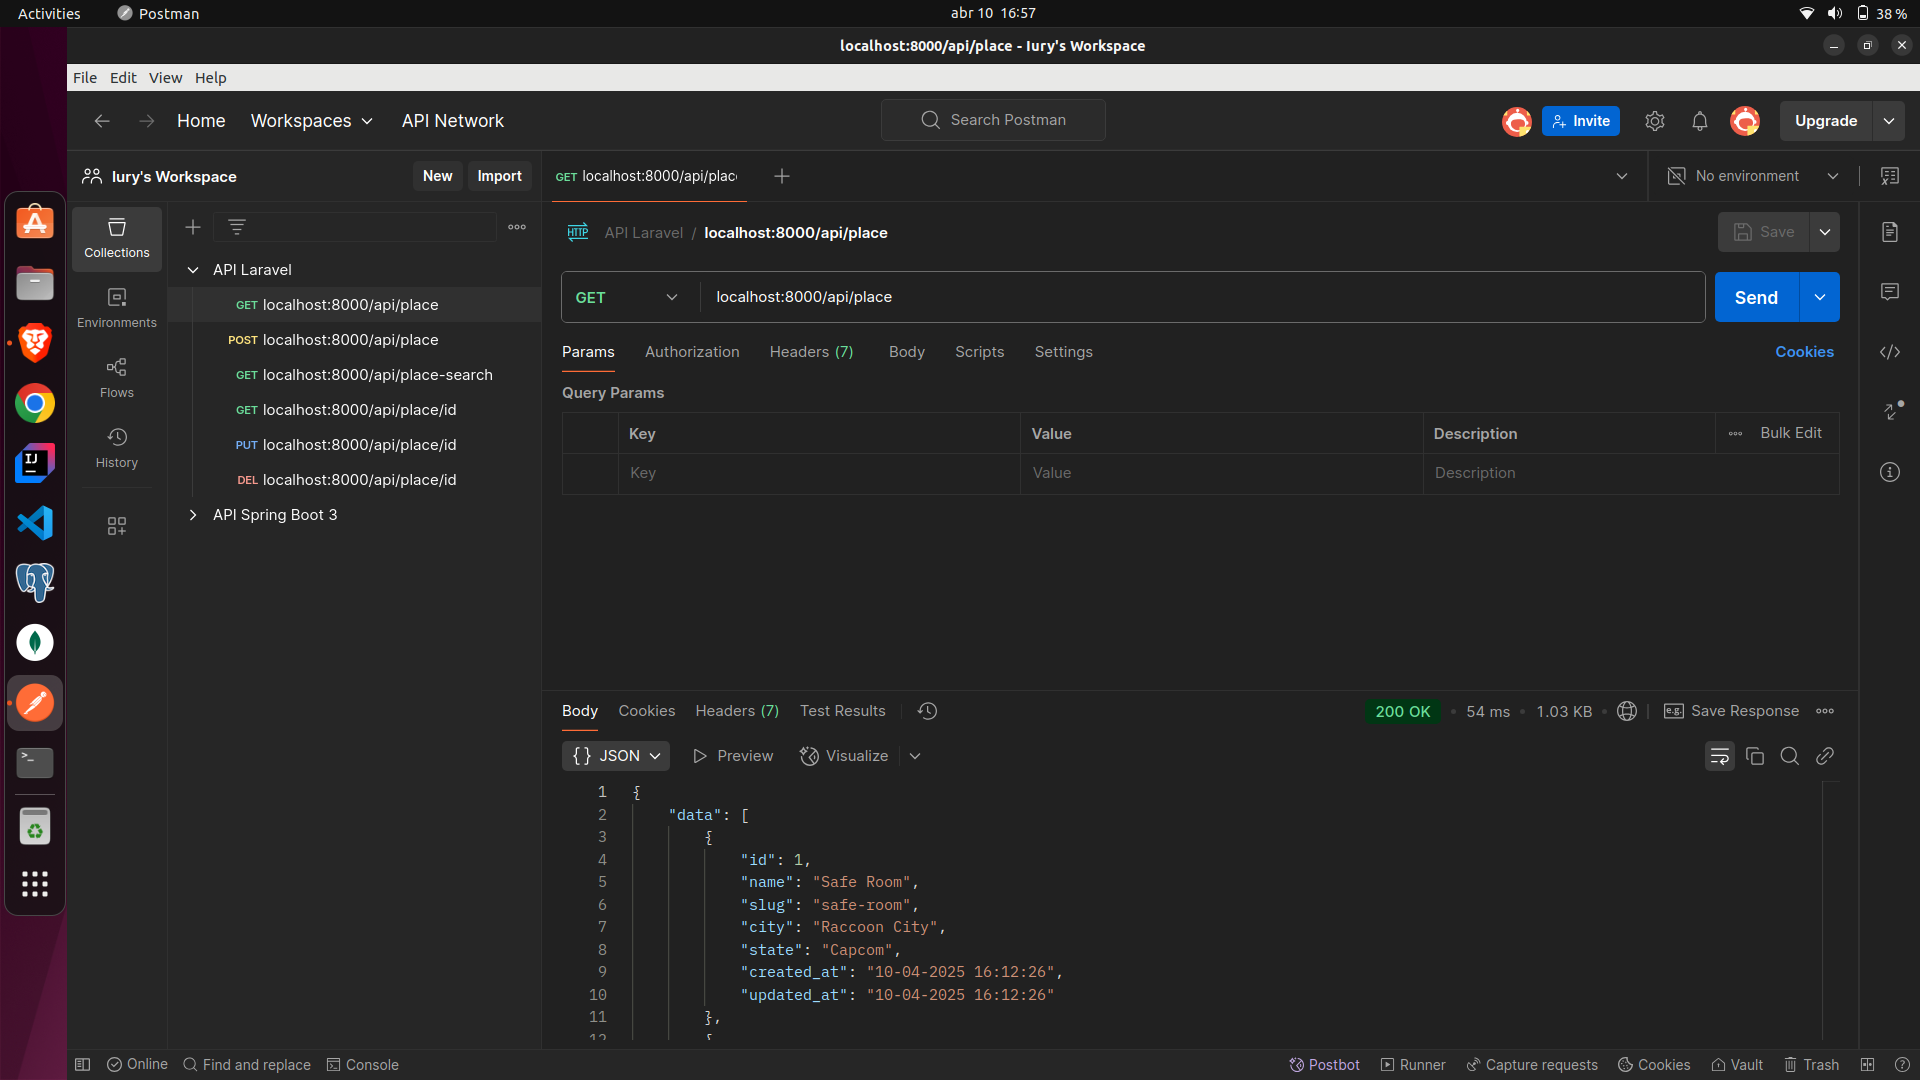
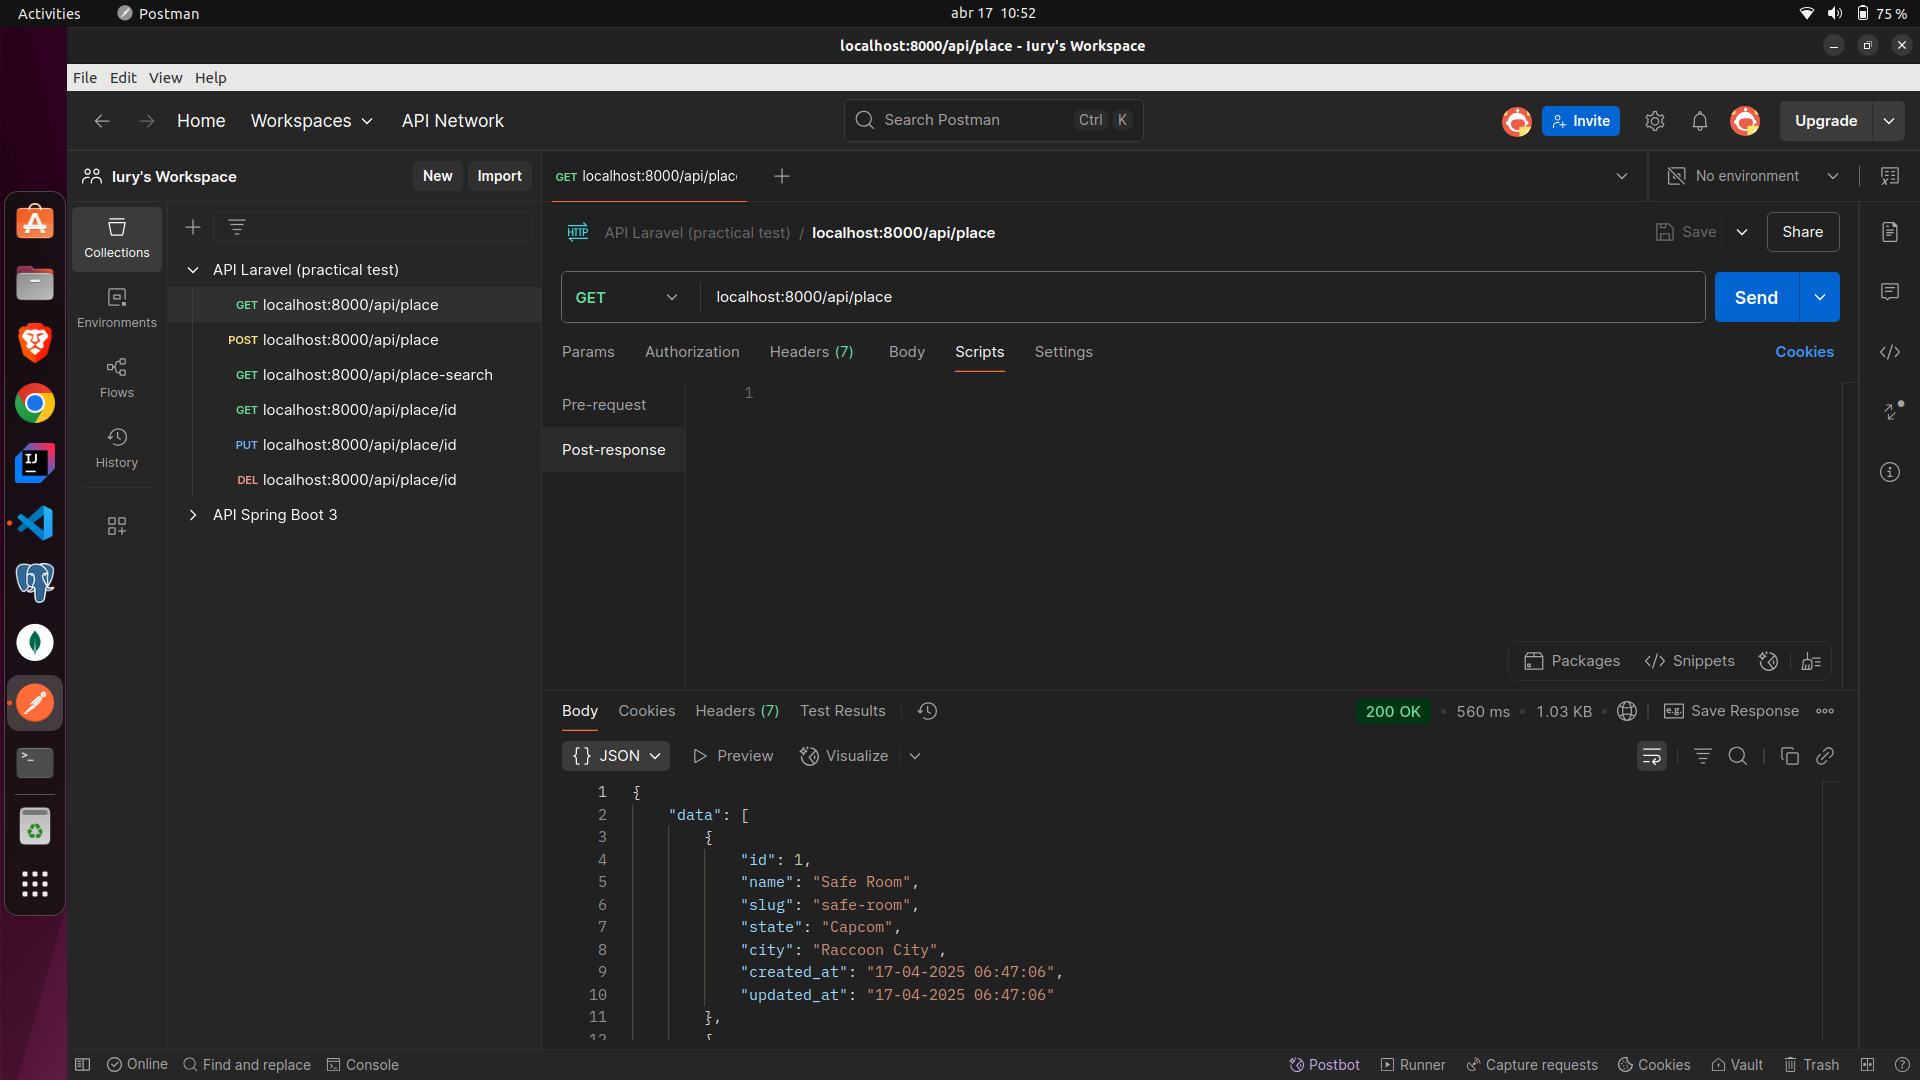
Refactor: Adding docker-compose commands like alternative way to README.md

diff --git a/app/Http/Controllers/Api/PlaceController.php b/app/Http/Controllers/Api/PlaceController.php
@@ -25,15 +25,15 @@ class PlaceController extends Controller
         try {
             $validations = $request->validate([
                 'name' => 'required',
-                'city' => 'required',
                 'state' => 'required',
+                'city' => 'required',
             ]);
             $validations['slug'] = Str::slug($validations['name']);
             $treated_data = [
                 'name' => trim((string) $validations['name']),
                 'slug' => trim((string) $validations['slug']),
-                'city' => trim((string) $validations['city']),
                 'state' => trim((string) $validations['state']),
+                'city' => trim((string) $validations['city']),
             ];
             $place = PlaceModel::create($treated_data);
             return (new PlaceResource($place))->response()->setStatusCode(201);
@@ -62,15 +62,15 @@ class PlaceController extends Controller
             }
             $validations = $request->validate([
                 'name' => 'required',
-                'city' => 'required',
                 'state' => 'required',
+                'city' => 'required',
             ]);
             $validations['slug'] = Str::slug($validations['name']);
             $treated_data = [
                 'name' => trim((string) $validations['name']),
                 'slug' => trim((string) $validations['slug']),
-                'city' => trim((string) $validations['city']),
                 'state' => trim((string) $validations['state']),
+                'city' => trim((string) $validations['city']),
             ];
             $place->update($treated_data);
             return new PlaceResource($place);

diff --git a/database/seeders/PlaceSeeder.php b/database/seeders/PlaceSeeder.php
@@ -17,25 +17,26 @@ class PlaceSeeder extends Seeder
         $places = [
             [
                 'name' => 'Safe Room',
-                'city' => 'Raccoon City',
                 'state' => 'Capcom',
+                'city' => 'Raccoon City',
             ],
             [
                 'name' => 'Observation Deck',
-                'city' => 'Silent Hill',
                 'state' => 'Konami',
+                'city' => 'Silent Hill',
             ],
             [
                 'name' => 'Monarch Theatre',
-                'city' => 'Gotham City',
                 'state' => 'DC Comics',
+                'city' => 'Gotham City',
             ],
             [
                 'name' => 'The West Side',
-                'city' => 'Metro City',
                 'state' => 'Capcom',
+                'city' => 'Metro City',
             ]
         ];
+
         $places = array_map(function ($place) {
             $place['slug'] = Str::slug($place['name']);
             $place['created_at'] = Carbon::now();

diff --git a/app/Http/Resources/PlaceResource.php b/app/Http/Resources/PlaceResource.php
@@ -18,8 +18,8 @@ class PlaceResource extends JsonResource
             'id'         => $this->id,
             'name'       => $this->name,
             'slug'       => $this->slug,
-            'city'       => $this->city,
             'state'      => $this->state,
+            'city'       => $this->city,
             'created_at' => optional($this->created_at)->timezone('America/Sao_Paulo')->format('d-m-Y H:i:s'),
             'updated_at' => optional($this->updated_at)->timezone('America/Sao_Paulo')->format('d-m-Y H:i:s'),
         ];

diff --git a/routes/api.php b/routes/api.php
@@ -17,7 +17,7 @@ Route::get('/user', function (Request $request) {
 // POST: localhost:8000/api/place
 // GET: localhost:8080/api/place-search?name=
 // GET: localhost:8000/api/place/id
-// PUT: localhost:8000/api/place/id
+// PUT/PATCH: localhost:8000/api/place/id
 // DELETE: localhost:8000/api/place/id
 
 Route::apiResources([

diff --git a/app/Models/PlaceModel.php b/app/Models/PlaceModel.php
@@ -14,7 +14,7 @@ class PlaceModel extends Model
     protected $fillable = [
         'name',
         'slug',
-        'city',
         'state',
+        'city',
     ];
 }

diff --git a/README.md b/README.md
@@ -11,12 +11,11 @@
 
 Follow the steps to set the application on your local machine.
 
-1 - Run the following commands below to install the dependencies (Check the existence of `Composer` on your machine).
+1 - Run the following commands below to install the necessary dependencies (Check the existence of `Composer` on your machine).
 
 ```
 composer install 
 cp .env.example .env 
-php artisan cache:clear 
 composer dump-autoload 
 php artisan key:generate
 ```
@@ -31,7 +30,7 @@ DB_USERNAME=postgres
 DB_PASSWORD=
 ```
 
-3 - Execute the migrations.
+3 - Run the migrations.
 
 ```
 php artisan migrate
@@ -122,42 +121,44 @@ Case you don't run the seeders the endpoint response will be:
 
 **POST: localhost:8000/api/place**
 ```
-// JSON Content
+// JSON body
 {
     "name": "Gold Saucer",
-    "city": "Final Fantasy VII",
-    "state": "Square Enix"
+    "state": "Square Enix",
+    "city": "Final Fantasy VII"
 }
+```
 
+```
 // Response - Status: 201 Created
 {
     "id": 5,
     "name": "Gold Saucer",
     "slug": "gold-saucer",
-    "city": "Final Fantasy VII",
     "state": "Square Enix",
+    "city": "Final Fantasy VII",
     "created_at": "10-04-2025 08:36:02",
     "updated_at": "10-04-2025 08:36:02"
 }
 ```
 
 **GET: localhost:8000/api/place/id**
-- You need change **id** for **5** (If you don't run the seeder, use **1**)
+- You need change **id** for **5** (If you don't run the seeder, use **1**).
 ```
 // Response - Status: 200 OK
 {
     "id": 5,
     "name": "Gold Saucer",
     "slug": "gold-saucer",
-    "city": "Final Fantasy VII",
     "state": "Square Enix",
+    "city": "Final Fantasy VII",
     "created_at": "10-04-2025 08:36:02",
     "updated_at": "10-04-2025 08:36:02"
 }
 ```
 
 **GET: localhost:8000/api/place-search?name=**
-- You need change **name=** for **name=Gold**
+- You need change **name=** for **name=Gold**.
 ```
 // Response - Status: 200 OK
 [
@@ -165,8 +166,8 @@ Case you don't run the seeders the endpoint response will be:
         "id": 5,
         "name": "Gold Saucer",
         "slug": "gold-saucer",
-        "city": "Final Fantasy VII",
         "state": "Square Enix",
+        "city": "Final Fantasy VII",
         "created_at": "10-04-2025 08:36:02",
         "updated_at": "10-04-2025 08:36:02"
     }
@@ -174,29 +175,31 @@ Case you don't run the seeders the endpoint response will be:
 ```
 
 **PUT: localhost:8000/api/place/id**
-- You need change **id** for **5** (If you don't run the seeder, use **1**)
+- You need change **id** for **5** (If you don't run the seeder, use **1**).
 ```
-// JSON Content
+// JSON body
 {
     "name": "Gold Saucer",
-    "city": "Final Fantasy VII Rebirth", // Final Fantasy VII to Final Fantasy VII Rebirth
     "state": "Square Enix"
+    "city": "Final Fantasy VII Rebirth" // Final Fantasy VII to Final Fantasy VII Rebirth
 }
+```
 
+```
 // Response - Status: 200 OK
 {
     "id": 5,
     "name": "Gold Saucer",
     "slug": "gold-saucer",
-    "city": "Final Fantasy VII Rebirth",
     "state": "Square Enix",
+    "city": "Final Fantasy VII Rebirth",
     "created_at": "10-04-2025 08:36:02",
     "updated_at": "10-04-2025 08:38:07"
 }
 ```
 
 **DELETE: localhost:8000/api/place/id**
-- You need change **id** for **5** (If you don't run the seeder, use **1**)
+- You need change **id** for **5** (If you don't run the seeder, use **1**).
 ```
 // Response - Status: 200 OK
 {
@@ -225,18 +228,10 @@ To ```.env``` file, I have ensured the port to access Laravel on brownser.
 APP_PORT=8000
 ```
 
-4 - In ```.env``` file set the following snippet to connect the application to database container from Docker:
+4 - Power on the containers:
 
-```
-DB_CONNECTION=pgsql
-DB_HOST=pgsql
-DB_PORT=5432
-DB_DATABASE=rest-api-practical-test
-DB_USERNAME=postgres
-DB_PASSWORD=secret
-```
+**sail command way**
 
-5 - Power on the containers:
 ```
 ./vendor/bin/sail up -d
 ```
@@ -256,20 +251,75 @@ If you want see the sail commands, use:
 sail --help
 ```
 
-6 - To performate the migrations, you need use the command:
+**docker-compose command way**
+```
+docker-compose up -d
+```
+
+5 - Run the following commands below to install the necessary dependencies.
+
+**sail command way**
+
+```
+sail composer install
+sail cp .env.example .env
+sail composer dump-autoload
+sail artisan key:generate
+```
+
+**docker-compose command way**
+
+```
+docker-compose exec laravel.test composer install
+docker-compose exec laravel.test cp .env.example .env
+docker-compose exec laravel.test composer dump-autoload
+docker-compose exec laravel.test artisan key:generate
+```
+
+6 - In ```.env``` file set the following snippet to connect the application to database container from Docker:
+
+```
+DB_CONNECTION=pgsql
+DB_HOST=pgsql
+DB_PORT=5432
+DB_DATABASE=rest-api-practical-test
+DB_USERNAME=postgres
+DB_PASSWORD=secret
+```
+
+7 - To performate the migrations, you need use the command:
+
+**sail command way**
+
 ```
 sail php artisan migrate --seed
 ```
 
+**docker-compose command way**
+
+```
+docker-compose exec laravel.test php artisan migrate --seed
+```
+
 Or
+
+**sail command way**
+
 ```
 sail php artisan migrate
 sail php db:seed
 ```
 
+**docker-compose command way**
+
+```
+docker-compose exec laravel.test php artisan migrate
+docker-compose exec laravel.test php artisan db:seed
+```
+
 Remember: If you have done the perfomation of migrations, don't need do again, skip the step 6. 
 
-7 - To use ```pgAdmin 4``` services from Docker, you can access:
+8 - To use ```pgAdmin 4``` services from Docker, you can access:
 ```
 http://localhost:5050
 ```
@@ -286,19 +336,19 @@ password: admin
 
 After you have written the credentials, click on ```Login``` button.
 
-8 - Using the correct credentials, the dashboard will be available.
+9 - Using the correct credentials, the dashboard will be available.
 
 ![](https://raw.githubusercontent.com/CryptedSnow/rest-api-practical-test/refs/heads/main/public/images/02.png)
 
-9 - ```Servers -> Register -> Server```
+10 - ```Servers -> Register -> Server```.
 
 ![](https://raw.githubusercontent.com/CryptedSnow/rest-api-practical-test/refs/heads/main/public/images/03.png)
 
-10 - About the ```Name``` field on ```General``` tab, you can choice whatever name (except ```localhost```), in my example I will use ```test-postgres```.
+11 - About the ```Name``` field on ```General``` tab, you can choice whatever name (except ```localhost```), in my example I will use ```test-postgres```.
 
 ![](https://raw.githubusercontent.com/CryptedSnow/rest-api-practical-test/refs/heads/main/public/images/04.png)
 
-11 - On ```Connection``` tab, you need set values on following fields
+12 - On ```Connection``` tab, you need set values on following fields:
 - Host name/address: ```pgsql```
 - Port: ```5432```
 - Maintenance database: ```postgres```
@@ -309,27 +359,27 @@ Finally, ckick on ```Save``` button.
 
 ![](https://raw.githubusercontent.com/CryptedSnow/rest-api-practical-test/refs/heads/main/public/images/05.png)
 
-12 - The ```test-postgres``` server has been created.
+13 - The ```test-postgres``` server has been created.
 
 ![](https://raw.githubusercontent.com/CryptedSnow/rest-api-practical-test/refs/heads/main/public/images/06.png)
 
-13 - ```test-postgres -> Database -> rest-api-practical-test```
+14 - ```test-postgres -> Databases -> rest-api-practical-test```.
 
 ![](https://raw.githubusercontent.com/CryptedSnow/rest-api-practical-test/refs/heads/main/public/images/07.png)
 
-14 - ```rest-api-practical-test -> Schemas -> public -> Tables -> places```
+15 - ```rest-api-practical-test -> Schemas -> public -> Tables -> places```.
 
 ![](https://raw.githubusercontent.com/CryptedSnow/rest-api-practical-test/refs/heads/main/public/images/08.png)
 
-15 - ```places -> View/Edit Data -> All Rows```
+16 - ```places -> View/Edit Data -> All Rows```.
 
 ![](https://raw.githubusercontent.com/CryptedSnow/rest-api-practical-test/refs/heads/main/public/images/09.png)
 
-16 - There are register in ```places``` table to populate the endpoint tests.
+17 - There are registers in ```places``` table to populate the endpoint tests.
 
 ![](https://raw.githubusercontent.com/CryptedSnow/rest-api-practical-test/refs/heads/main/public/images/10.png)
 
-17 - If you have doubt about the working of Laravel from service Docker, you can access:
+18 - If you have doubt about the working of Laravel from service Docker, you can access:
 
 ```
 http://localhost:8080
@@ -339,10 +389,18 @@ You will see:
 
 ![](https://raw.githubusercontent.com/CryptedSnow/rest-api-practical-test/refs/heads/main/public/images/11.png)
 
-18 - If you power off the containers, use the command
+19 - If you power off the containers, use the command:
+
+**sail command way**
 ```
 sail down
-``` 
+```
+
+**docker-compose way**
+
+```
+docker-compose down
+```
 
 Now, you can performate the endpoints using environment Docker, follow the [REST API endpoints](#rest-api-endpoints) commands.
 
